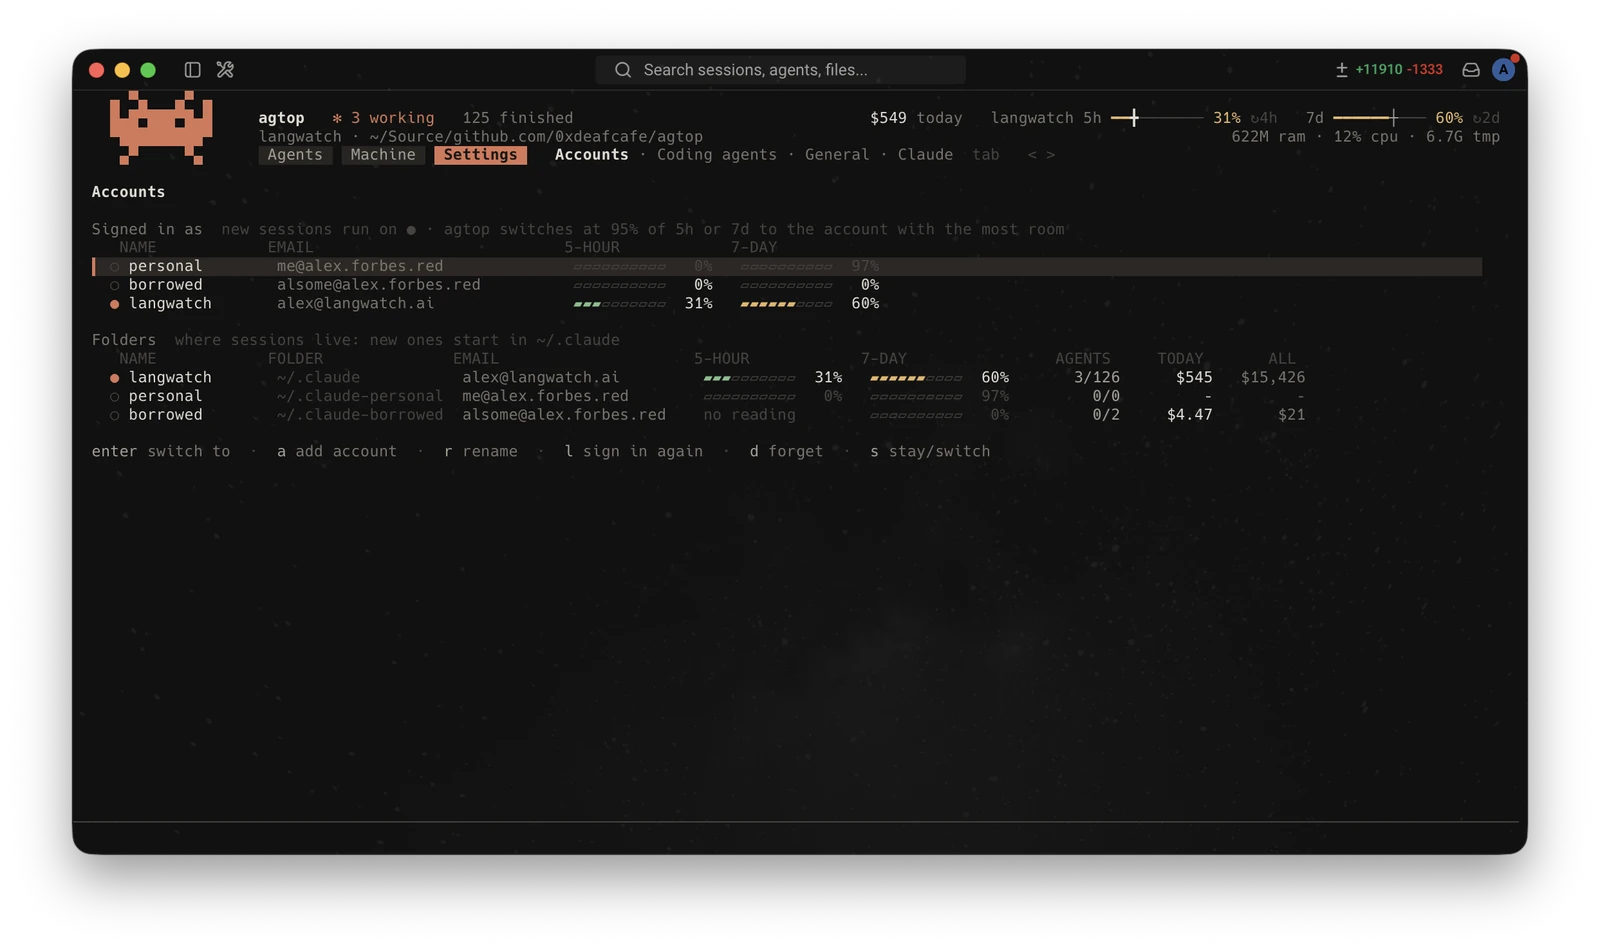
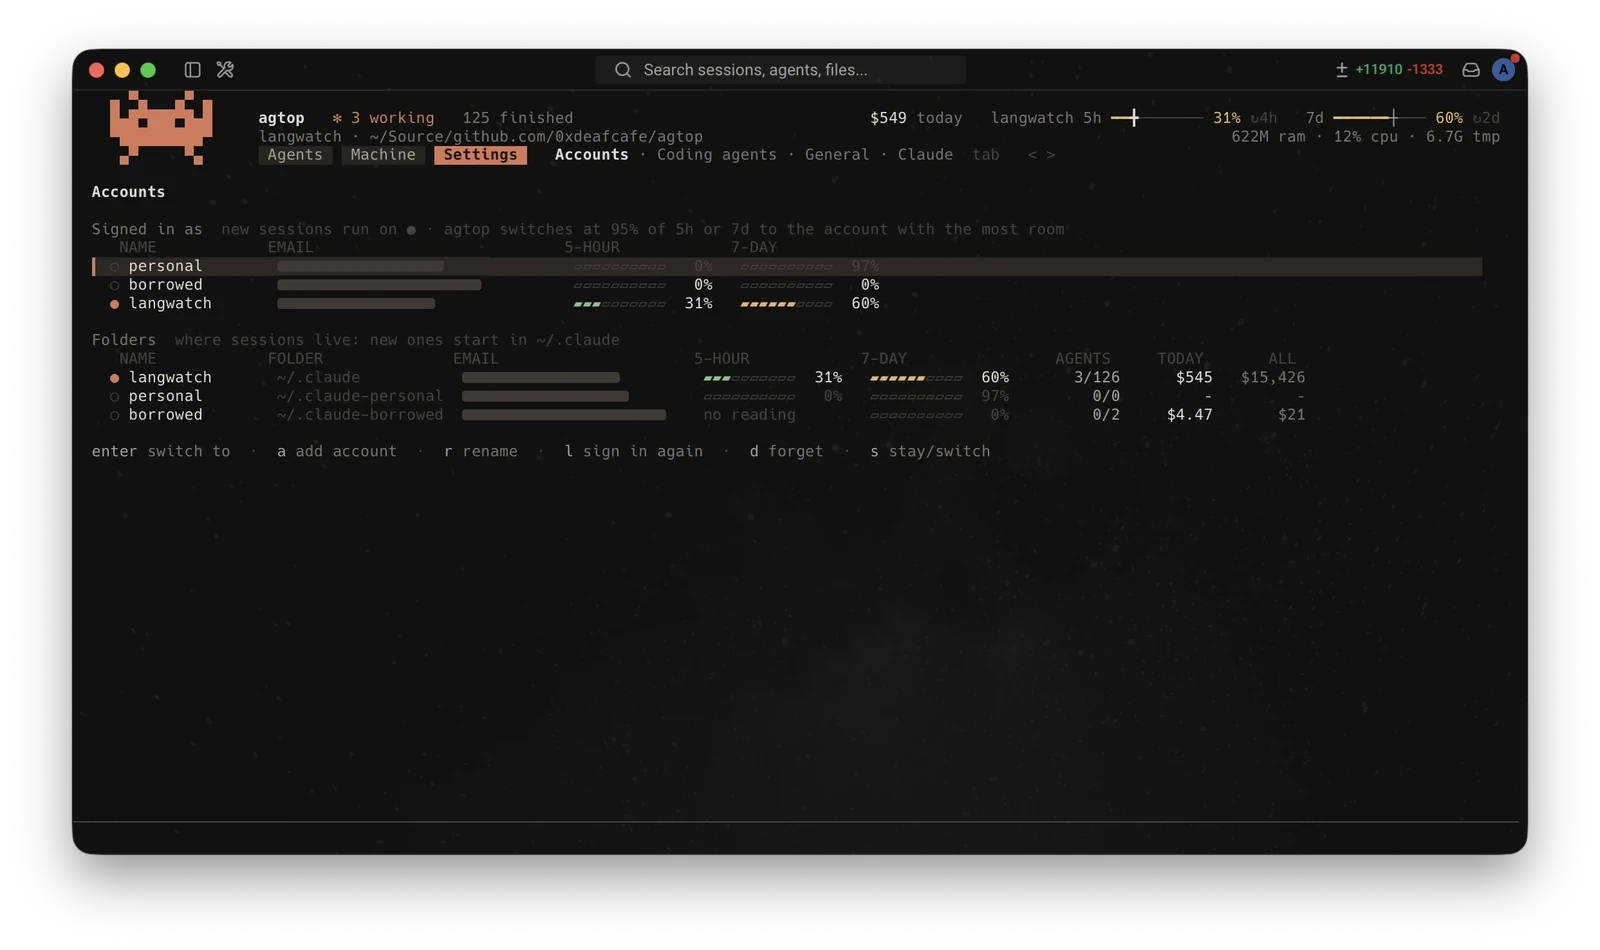
docs: redact emails in the accounts screenshot, open with the session code shot

Changed region(s): [[0.2812, 0.3663, 0.4062, 0.4579], [0.1562, 0.2747, 0.3125, 0.3358]]

diff --git a/README.md b/README.md
@@ -6,7 +6,7 @@
 </p>
 
 <p align="center">
-  <img src="docs/screenshots/agents.webp" alt="agtop: the agent list beside a Session">
+  <img src="docs/screenshots/session-code.webp" alt="agtop: a Session with a failed step opened, its script and error">
 </p>
 
 <table>
